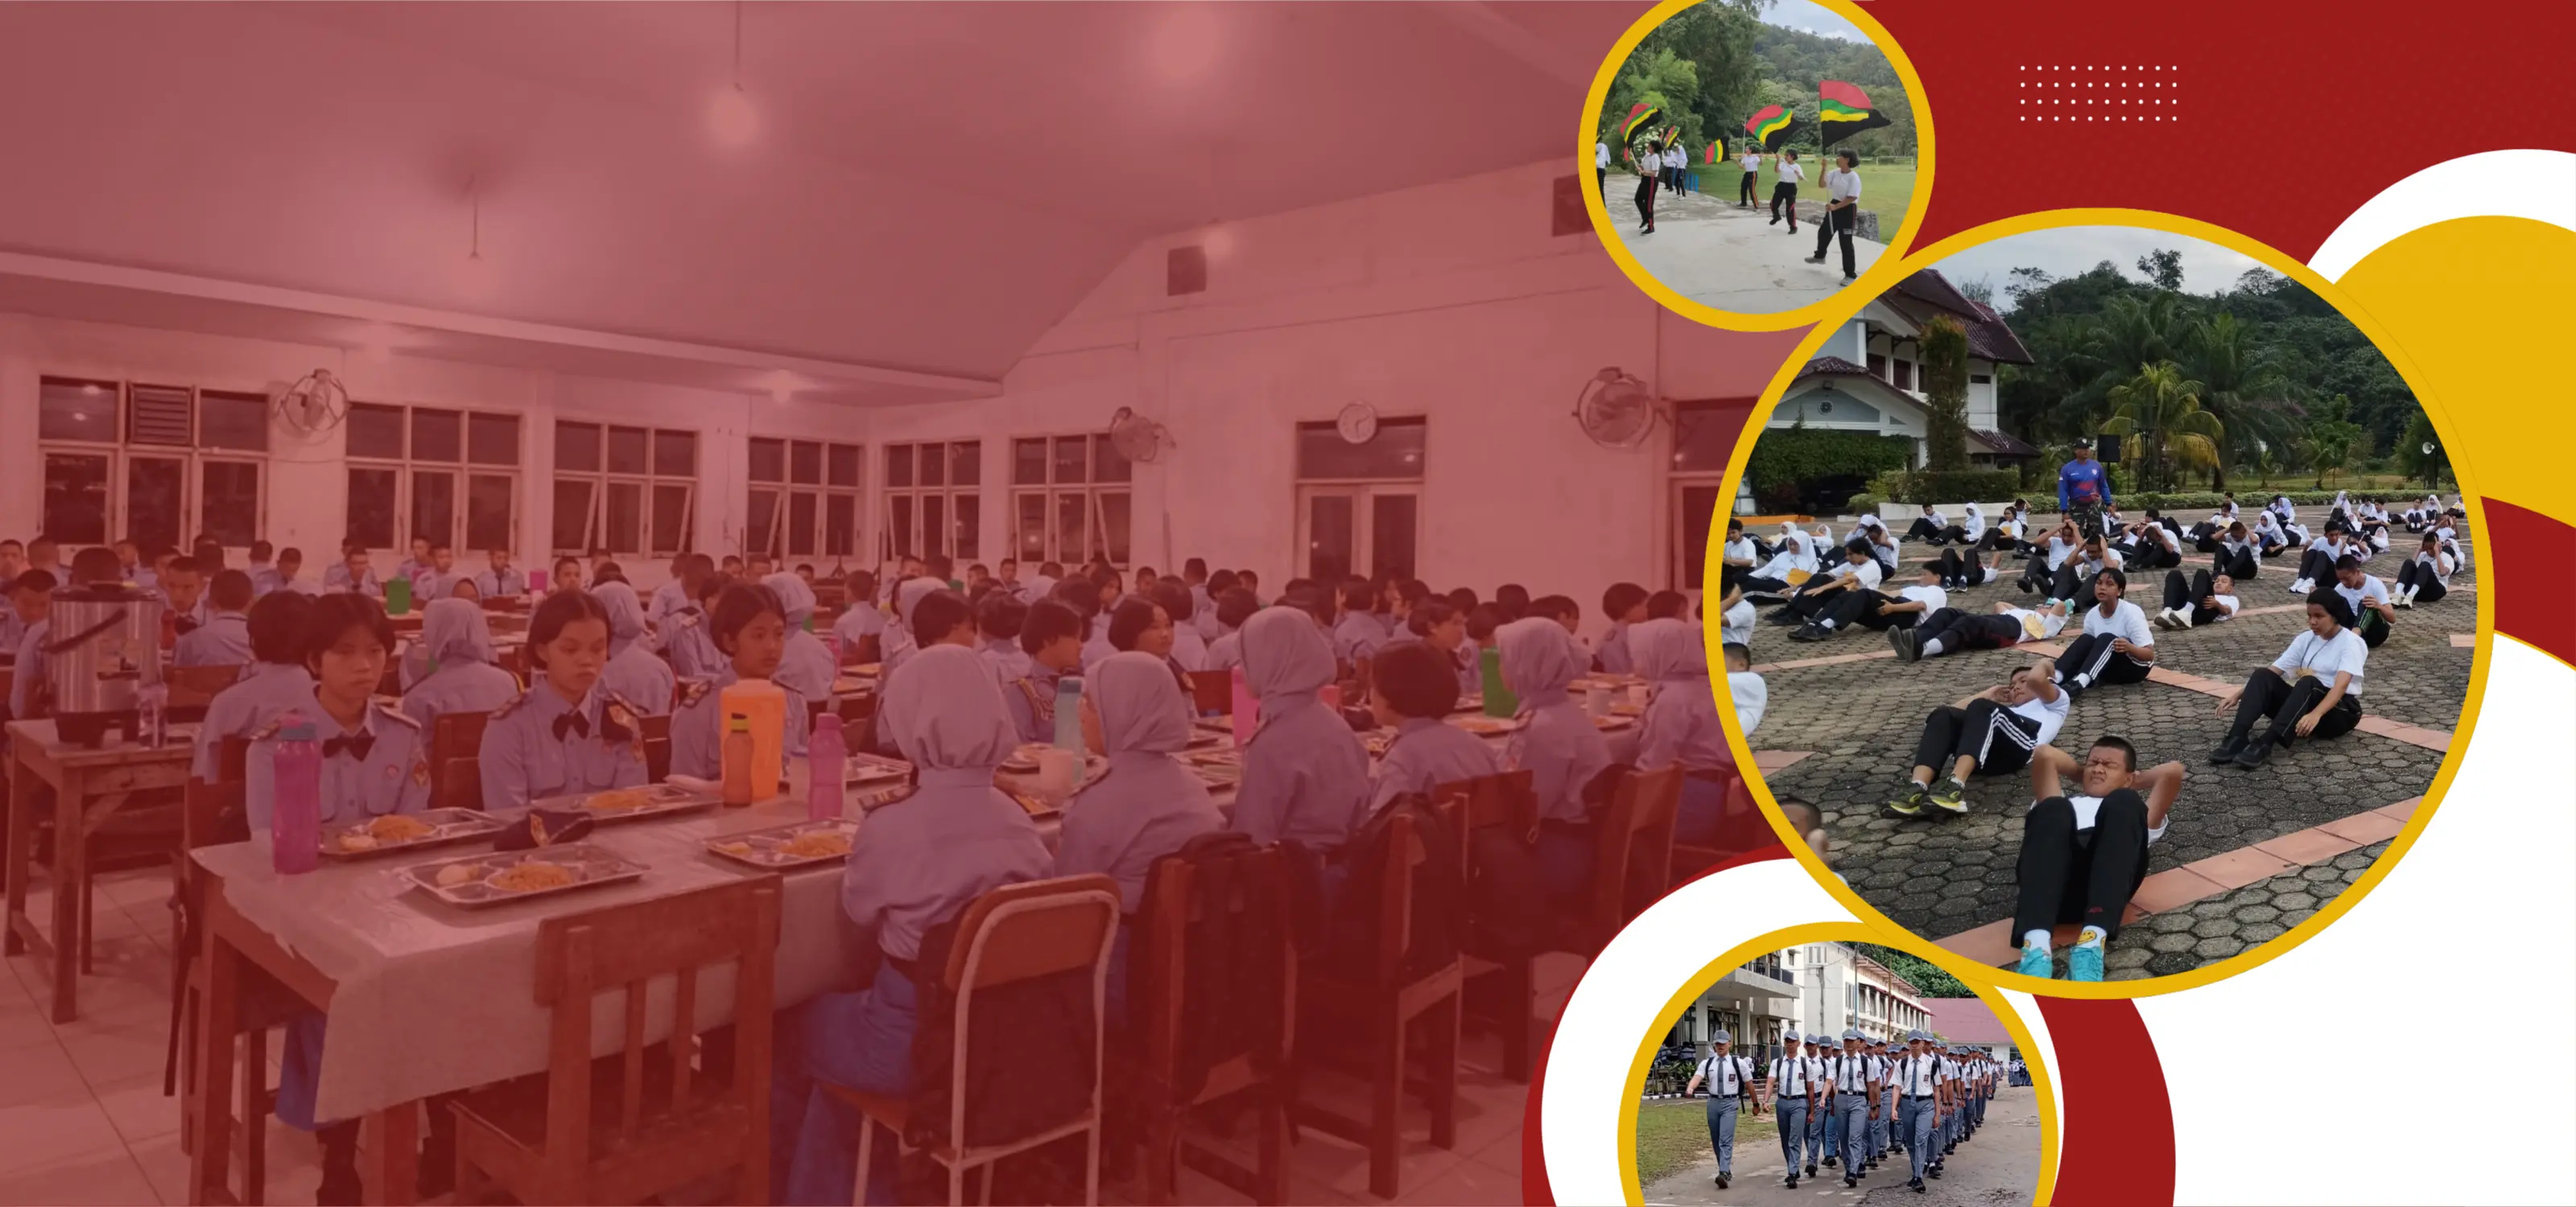
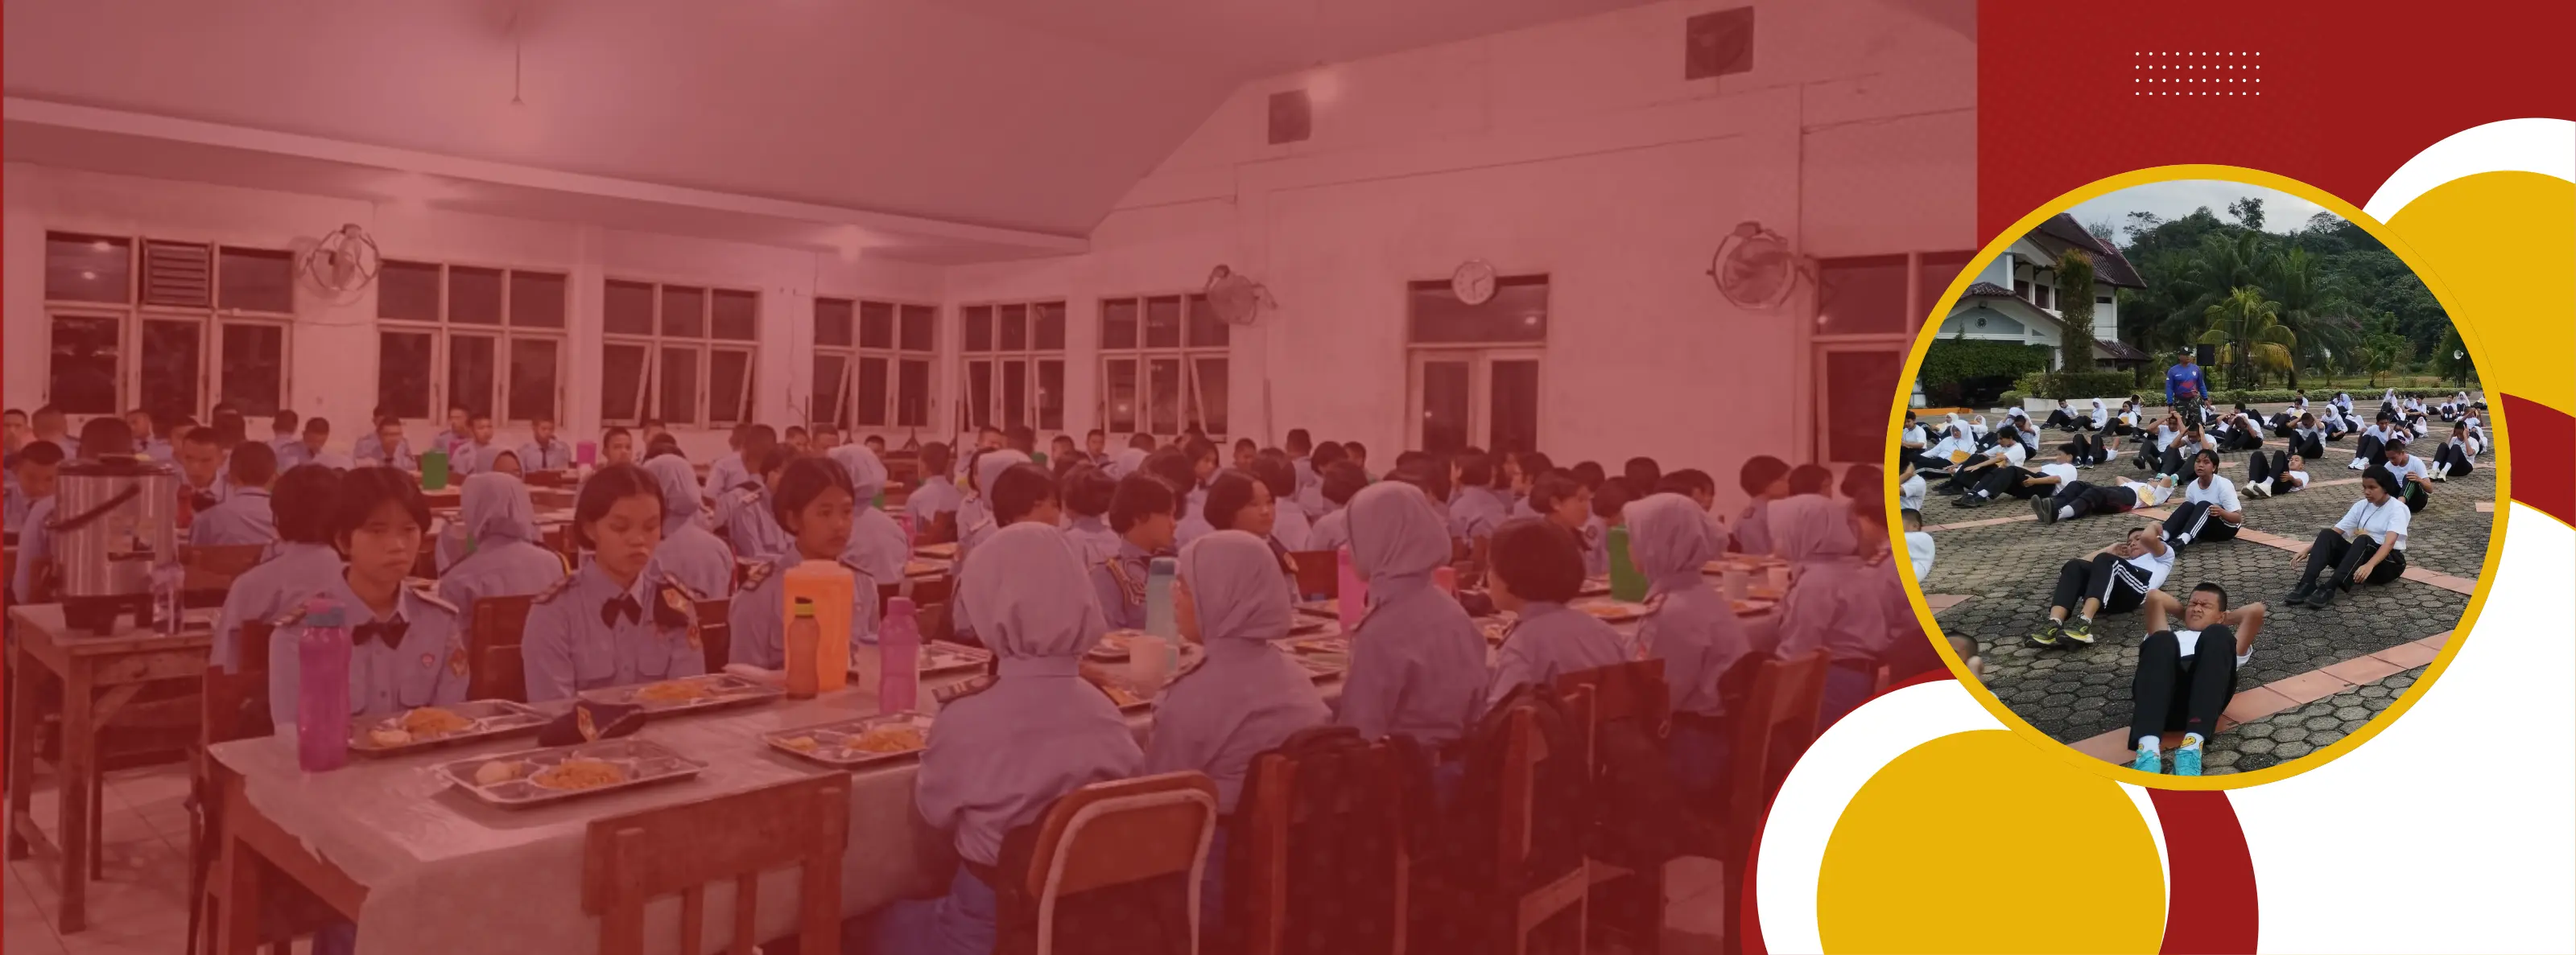
Update file en.json

diff --git a/resources/views/pages/sejarah.blade.php b/resources/views/pages/sejarah.blade.php
@@ -1,5 +1,5 @@
 @extends('layouts.app')
-@section('title', 'Sejarah')
+@section('title', __('Sejarah'))
 @section('content')
     <!-- ============================================ -->
     <!-- SEJARAH SEKOLAH SECTION - START -->

diff --git a/resources/views/layouts/app.blade.php b/resources/views/layouts/app.blade.php
@@ -1,5 +1,5 @@
 <!DOCTYPE html>
-<html lang="id" class="scroll-smooth">
+<html lang="{{ app()->getLocale() }}" class="scroll-smooth">
 
 <head>
     <meta charset="UTF-8">
